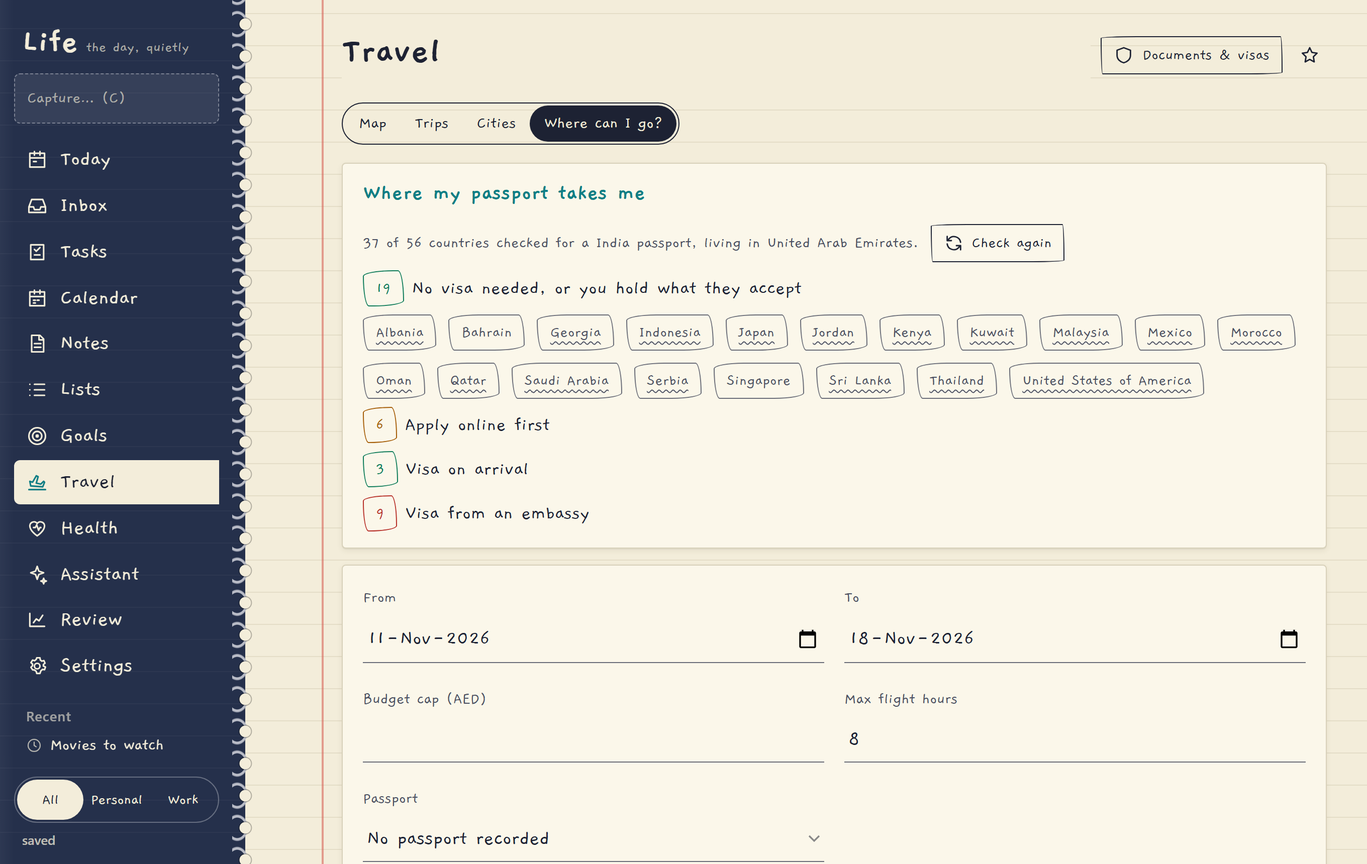
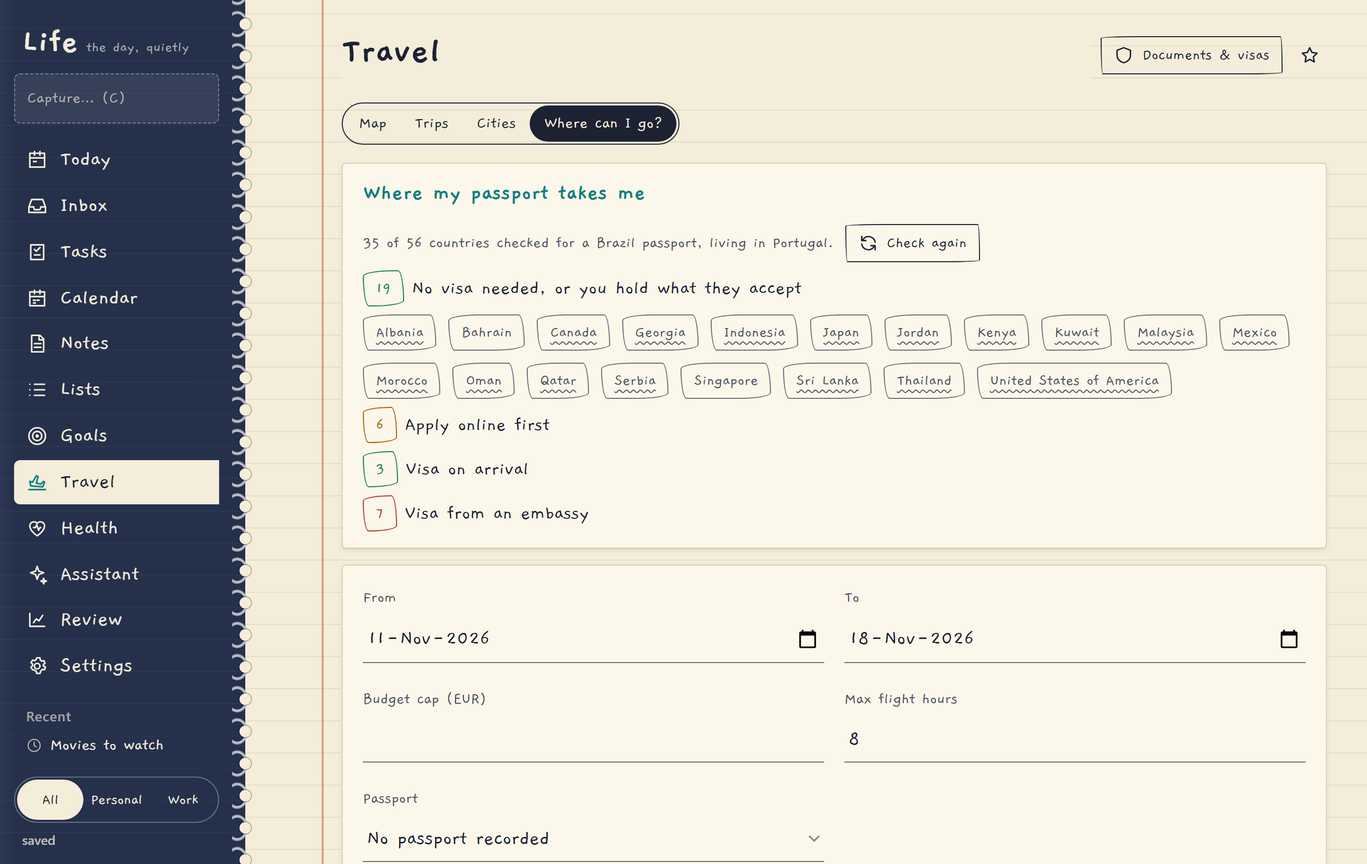
Docs: full setup guide, fictional sample persona for screenshots, explorer polish
- Set-up page rewritten end to end: requirements, install, keep it running, Tailscale + HTTPS, per-integration steps, config reference, backups/restore/update, troubleshooting, removal
- Screenshots regenerated from a fictional persona (nothing personal); the generator refuses to run if the sample data looks personal
- Explorer: proper names for small countries and no dead links; short list rows get separators; the country stamp no longer sits on the Add-visit button

Changed region(s): [[0.2812, 0.3698, 0.9375, 0.4622], [0.4375, 0.2773, 0.7812, 0.3081], [0.3125, 0.5855, 0.4375, 0.6163]]

diff --git a/docs/setup.html b/docs/setup.html
@@ -1,31 +1,98 @@
 <!doctype html>
 <html lang="en"><head><meta charset="utf-8"><meta name="viewport" content="width=device-width, initial-scale=1">
-<title>Set up · Life</title><meta name="description" content="Run Life on your computer, reach it from your phone, add integrations, back up your data."><meta name="theme-color" content="#25304b">
+<title>Set up · Life</title><meta name="description" content="Install and run Life on your computer, reach it from your iPhone, add integrations, back up, update and troubleshoot."><meta name="theme-color" content="#25304b">
 <link rel="icon" href="assets/icon.png"><link rel="stylesheet" href="assets/site.css"></head>
 <body><header class="top"><div class="in"><a class="brand" href="index.html"><img src="assets/icon.png" alt="">Life</a><nav aria-label="Main"><a href="index.html">Home</a><a href="features.html">Features</a><a href="iphone.html">iPhone</a><a href="setup.html" aria-current="page">Set up</a><a href="security.html">Security</a></nav></div></header>
 <main class="wrap">
 <h1>Set up</h1>
-<h2>Run it</h2>
-<p><b>Windows:</b> double-click <code>run.bat</code>. First run creates a virtual environment, installs the requirements and starts the server on <code>http://127.0.0.1:5055</code>. Open it and choose a password (8+ characters). <b>Mac/Linux:</b> <code>./run.sh</code>.</p>
-<p>To keep it running in the background, use a service wrapper such as NSSM: program <code>.venv\Scripts\python.exe</code>, arguments <code>app.py</code>, start directory = the project folder.</p>
-<h2>Reach it from your phone</h2>
-<p>Recommended: <b>Tailscale</b> on the computer and the phone, then <code>tailscale serve --bg 5055</code> gives you a private HTTPS address only your devices can reach. Add <code>LIFE_HTTPS=1</code> to <code>.env</code> so cookies are marked Secure. Never use <code>tailscale funnel</code> (that is public). A small VPS behind Caddy also works; the full steps are in <code>SETUP-PHONE.md</code>.</p>
-<h2>Add integrations in Settings</h2>
-<p>Everything is optional and fails softly into <b>Settings → Data health</b>. Keys you type in Settings are stored <b>encrypted</b> and applied immediately (no restart). A value in <code>.env</code> still works as a fallback.</p>
-<table><tr><th>Integration</th><th>What for</th><th>Where</th></tr>
-<tr><td>OpenAI key</td><td>Assistant, voice, share/enrichment (cheap models), Decisions API for entry rules</td><td>Settings → Voice &amp; assistant</td></tr>
-<tr><td>Anthropic key</td><td>Optional alternative for the assistant</td><td>same</td></tr>
-<tr><td>Telegram bot</td><td>Reminders, inbox capture, morning brief</td><td>Settings → Reminders &amp; Telegram</td></tr>
-<tr><td>Gmail app password</td><td>Email a to-do to yourself; booking proposals</td><td>Settings → Email-in</td></tr>
-<tr><td>Garmin</td><td>Sleep, steps, heart rate. One sign-in, tokens kept</td><td>Settings → Garmin, then Health → Sync now</td></tr>
-<tr><td>IMDb ratings</td><td>★ on films and series (free dataset, ~7 MB, downloaded only when you press the button)</td><td>Settings → Film &amp; series ratings</td></tr>
-<tr><td>OMDb key</td><td>Optional extra film details</td><td>Settings → Voice &amp; assistant</td></tr></table>
-<p>Set your <b>passport country</b> and <b>where you live</b> in <b>Settings → You</b> for the entry rules. Add the visas you hold in <b>Travel → Documents</b> (type "Visa").</p>
-<h2>Your data</h2>
-<ul><li>One SQLite file, <code>data/life.db</code>. Settings → Your data: <b>Export everything</b> (JSON + Markdown), <b>Download a backup</b> (to the Files app on iPhone), <b>Backup with key</b>.</li><li>A nightly backup keeps 14 days in <code>data/backups</code>.</li><li><b>Back up <code>data/fernet.key</code> too.</b> It encrypts passport numbers, health values, scans and the keys you entered. Lose it and those are unrecoverable, by design.</li></ul>
+<p>About 10 minutes for the basics; the phone and integrations are optional extras you can add any time. Life runs on <b>your own computer</b> (or a small server you control); your phone just opens it.</p>
+
+<h2>What you need</h2>
+<ul>
+<li>A computer that is on when you want Life: Windows, Mac or Linux. A home PC works well.</li>
+<li>A recent <b>Python 3</b> (developed and tested on 3.14). Get it from python.org; on Windows tick "Add Python to PATH".</li>
+<li><b>Git</b> to download and update the code (or download the folder as a zip).</li>
+<li>For the phone: an iPhone with Safari, and <b>Tailscale</b> (free) on the computer and the phone, so the phone can reach it privately over HTTPS.</li>
+<li>Optional: Node.js 18+ (only to run the JavaScript tests).</li>
+</ul>
+
+<h2>1 · Get the code and start it</h2>
+<ol class="steps">
+<li>Download the project: <code>git clone &lt;your repository address&gt; life</code>, then open the <code>life</code> folder.</li>
+<li><b>Windows:</b> double-click <code>run.bat</code>. <b>Mac/Linux:</b> run <code>./run.sh</code>. The first run creates a private Python environment, installs the requirements (a few minutes) and starts the server.</li>
+<li>Open <code>http://127.0.0.1:5055</code> in a browser on the same computer. Choose a password (8 or more characters; use a long one). That is your account: there is no sign-up and no cloud.</li>
+<li>Settings → <b>You</b>: your name, timezone, currency, <b>passport country</b> and <b>where you live</b>. (These drive the visa and entry-rule features.)</li>
+</ol>
+<p>Everything you save lives in one folder, <code>data/</code>, next to the code. It is never uploaded anywhere by Life.</p>
+
+<h2>2 · Keep it running</h2>
+<p>Life stops when you close its window, so for daily use run it in the background:</p>
+<ul>
+<li><b>Windows:</b> NSSM (a service wrapper): program <code>.venv\Scripts\python.exe</code>, arguments <code>app.py</code>, start directory = the project folder. Or a Task Scheduler task "At log on" that runs <code>.venv\Scripts\pythonw.exe app.py</code> in the project folder (no window).</li>
+<li><b>Mac:</b> a launchd agent; <b>Linux:</b> a systemd service running <code>.venv/bin/python app.py</code> in the project folder.</li>
+<li>Keep the computer awake (power settings) if you want reminders and notifications at any hour.</li>
+</ul>
+
+<h2>3 · Reach it from your iPhone</h2>
+<p>iOS only allows notifications, Face ID and installation for <b>HTTPS</b> sites, so Life needs a secure address your phone can reach. The easiest private way is Tailscale: only your own devices can open it.</p>
+<ol class="steps">
+<li>Install <b>Tailscale</b> on the computer and on the iPhone, and sign in to the same account on both.</li>
+<li>On the computer, in a terminal: <code>tailscale serve --bg 5055</code>. Tailscale prints an address like <code>https://your-pc.your-tailnet.ts.net</code> with a real certificate. <b>Do not use <code>tailscale funnel</code>: that makes it public.</b></li>
+<li>In the project folder create a file named <code>.env</code> with one line: <code>LIFE_HTTPS=1</code>, then restart Life. (This marks the sign-in cookie as Secure.)</li>
+<li>On the iPhone, open that address in <b>Safari</b> and sign in. Then follow the <a href="iphone.html">iPhone guide</a>: add it to the Home Screen, turn on notifications, Face ID, sharing, Calendar and Siri.</li>
+</ol>
+<div class="note"><p><b>Prefer not to keep a computer on?</b> A small cloud server works too: run Life there behind <b>Caddy</b> (it fetches a certificate automatically) with a long password. Details are in <code>SETUP-PHONE.md</code> in the project folder. Never expose the development server to the internet.</p></div>
+
+<h2>4 · Add integrations (all optional)</h2>
+<p>Open <b>Settings</b>, paste the key, done. Keys are stored <b>encrypted</b> and take effect immediately (no restart). A value in <code>.env</code> is still honoured as a fallback; what you type in Settings wins. Each integration reports its health in <b>Settings → Data health</b>.</p>
+<table><tr><th>Integration</th><th>How to set it up</th></tr>
+<tr><td><b>OpenAI</b> (assistant, voice, sharing, entry rules)</td><td>Create an API key at platform.openai.com → API keys. Paste it in <b>Settings → Voice &amp; assistant</b>. Set a monthly cap there too. Without it, everything except the AI features still works.</td></tr>
+<tr><td><b>Telegram</b> (reminders, morning brief, capture)</td><td>In Telegram message <b>@BotFather</b> → <code>/newbot</code> → copy the token into <b>Settings → Reminders &amp; Telegram</b>. Send your new bot any message, open <code>https://api.telegram.org/bot&lt;token&gt;/getUpdates</code> in a browser, find <code>"chat":{"id":123…</code> and paste that number as <b>Telegram chat id</b>. Press <b>Send test notification</b>.</td></tr>
+<tr><td><b>Phone notifications</b></td><td>On the iPhone, in the installed app: <b>Settings → Phone notifications → Turn on for this device</b> → allow → <b>Send a test</b>.</td></tr>
+<tr><td><b>Gmail</b> (email a to-do to yourself)</td><td>Turn on 2-step verification for the Google account, create an <b>App password</b> (Google Account → Security → App passwords), and enter the address and app password in <b>Settings → Email-in</b>. Add the allowed sender addresses.</td></tr>
+<tr><td><b>Garmin</b> (sleep, steps, heart rate)</td><td>Enter your Garmin email and password in <b>Settings → Garmin</b>, then <b>Health → Sync now</b>. Garmin emails you <b>one</b> code; enter it on the same screen. After that Life keeps a login token and never signs in with your password from the background again.</td></tr>
+<tr><td><b>IMDb ratings</b></td><td><b>Settings → Film &amp; series ratings → Download IMDb ratings</b> (a free ~7 MB file, fetched only when you press the button).</td></tr>
+<tr><td><b>Calendar &amp; Siri links</b></td><td><b>Settings → Use it on your iPhone</b>.</td></tr></table>
+
+<h2>5 · Your visas and entry rules</h2>
+<p>Set your <b>passport country</b> and <b>where you live</b> in Settings → You. Add each visa you hold in <b>Travel → Documents &amp; visas</b> (type <b>Visa</b>, with the country and expiry). Open any country in Travel to see <b>Entry for you</b>, or the <b>Where can I go?</b> tab and press <b>Check every country</b> (about 5 minutes in the background; cached for a week).</p>
+
+<h2>Configuration reference</h2>
+<p>Most settings live in the app. These environment variables (in <code>.env</code> or the system environment) are for the server itself:</p>
+<table><tr><th>Variable</th><th>Meaning</th></tr>
+<tr><td><code>LIFE_PORT</code> / <code>LIFE_HOST</code></td><td>Port (default 5055) and bind address (default <code>127.0.0.1</code>: only this computer; Tailscale forwards to it)</td></tr>
+<tr><td><code>LIFE_HTTPS=1</code></td><td>Serve cookies as Secure and send HSTS (set it when you use the HTTPS address)</td></tr>
+<tr><td><code>LIFE_DATA</code></td><td>Where the data folder lives (default <code>./data</code>)</td></tr>
+<tr><td><code>LIFE_FERNET_KEY</code>, <code>LIFE_SECRET</code></td><td>Supply your own encryption / session keys instead of the generated files in <code>data/</code></td></tr>
+<tr><td><code>LIFE_AI_MOCK=1</code></td><td>Use a built-in fake model (for trying things without any key, and for tests)</td></tr></table>
+
+<h2>Backups, restore, updates</h2>
+<ul>
+<li><b>Automatic:</b> a nightly copy of the database in <code>data/backups</code> (14 days kept).</li>
+<li><b>From your phone:</b> Settings → Your data → <b>Download a backup</b> (saves to the Files app). <b>Backup with key</b> also includes the encryption key; keep that file private (for example in iCloud Drive).</li>
+<li><b>Back up <code>data/fernet.key</code> too.</b> It encrypts passport numbers, health values, scans and the keys you entered. Without it those are unreadable, by design.</li>
+<li><b>Restore:</b> stop Life, copy the chosen <code>life-….db</code> over <code>data/life.db</code> (and put your <code>fernet.key</code> back), start Life.</li>
+<li><b>Update:</b> stop Life, <code>git pull</code>, start it again. Your data is untouched. Run the tests if you like (below).</li>
+</ul>
+
+<h2>Troubleshooting</h2>
+<table><tr><th>Problem</th><th>Try this</th></tr>
+<tr><td>Phone can't open the address</td><td>Is Tailscale connected on the phone and the computer? Does the address work in a browser on the computer? Is Life running? Did you use the full <code>https://…ts.net</code> address (with the port if you chose one)?</td></tr>
+<tr><td>No notifications on iPhone</td><td>It must be the <b>installed</b> app (Home Screen icon), opened over HTTPS, with notifications allowed in iOS Settings → Notifications → Life. Then Settings → Phone notifications → Turn on → Send a test.</td></tr>
+<tr><td>No Face ID option</td><td>Open the HTTPS address (passkeys need it) and set it up on the iPhone itself: Settings → Face ID.</td></tr>
+<tr><td>Locked out after requiring Face ID</td><td>Open Life <b>on the computer</b> (<code>http://localhost:5055</code>); the password still works there. Then turn the requirement off in Settings → Face ID.</td></tr>
+<tr><td>A shared Instagram post lands in the Inbox</td><td>Nothing readable was found (a hidden caption and unreadable slides). Copy the caption, open Capture, paste it and tap <b>To lists</b>. Use Settings → Use it on your iPhone → <b>Test this token</b> to check the Shortcut.</td></tr>
+<tr><td>Garmin keeps emailing codes</td><td>Update to this version: it signs in once and keeps tokens. Press <b>Sync now</b>, enter the one code, done.</td></tr>
+<tr><td>Forgot the password</td><td>Stop Life, then in the project folder run <code>.venv\Scripts\python -c "import sqlite3; c = sqlite3.connect('data/life.db'); c.execute('DELETE FROM kv WHERE k=?', ('pw',)); c.commit()"</code> (on Mac/Linux use <code>.venv/bin/python</code>) and start Life: it asks you to choose a new password. Your data is untouched.</td></tr>
+<tr><td>Port already in use</td><td>Set <code>LIFE_PORT=5056</code> in <code>.env</code> and restart (and re-run <code>tailscale serve</code> with the new port).</td></tr>
+<tr><td>Something looks stale after an update</td><td>On the phone close and reopen the app (it refreshes its cache on start).</td></tr></table>
+
 <h2>Run the tests</h2>
 <pre><code>.venv\Scripts\python tests\run_all.py          # everything (about 6 minutes)
 .venv\Scripts\python tests\run_all.py --fast   # syntax, unit and backend tests (about 30 s)</code></pre>
 <p>They cover the backend, security rules, every page at desktop and phone size, Face ID with a virtual authenticator, touch gestures, offline mode and sync. A test also scans the repo for anything key-shaped.</p>
 
-<footer>Life is a private, single-user app that runs on your own computer. This site was built from the project's own docs and sample data: no real personal data appears in any screenshot.</footer></main></body></html>
+<h2>Removing it</h2>
+<p>Stop Life and delete the project folder; your data went with it (<code>data/</code>). Before that, <b>Settings → Your data → Export everything</b> gives you a zip of all your records and notes.</p>
+
+<footer>Life is a private, single-user app that runs on your own computer. This site was built from the project's own docs and sample data: no real personal data appears in any screenshot. Handwriting font: Gaegu (SIL Open Font License).</footer></main></body></html>

diff --git a/docs/features.html b/docs/features.html
@@ -33,4 +33,4 @@
 <div class="shots"><figure><div class="phone"><img src="assets/shots/phone-tasks.png" alt="Tasks" loading="lazy"></div><figcaption>Tasks</figcaption></figure><figure><div class="phone"><img src="assets/shots/phone-notes.png" alt="Notes" loading="lazy"></div><figcaption>Notes</figcaption></figure><figure><div class="phone"><img src="assets/shots/phone-health.png" alt="Health" loading="lazy"></div><figcaption>Health</figcaption></figure><figure><div class="phone"><img src="assets/shots/phone-lists.png" alt="Lists" loading="lazy"></div><figcaption>Lists</figcaption></figure></div>
 <ul><li><b>Garmin</b> (health): sign in <b>once</b>; Life keeps a login token, not your password, so no repeated security-code emails.</li><li><b>Assistant</b>: asks before it changes anything (confirm cards), everything logged and undoable.</li><li><b>Review</b>: weekly, monthly and a year-in-review poster. <b>Backups</b>: nightly, plus download one to the Files app.</li></ul>
 
-<footer>Life is a private, single-user app that runs on your own computer. This site was built from the project's own docs and sample data: no real personal data appears in any screenshot.</footer></main></body></html>
+<footer>Life is a private, single-user app that runs on your own computer. This site was built from the project's own docs and sample data: no real personal data appears in any screenshot. Handwriting font: Gaegu (SIL Open Font License).</footer></main></body></html>

diff --git a/docs/security.html b/docs/security.html
@@ -36,4 +36,4 @@
 <li>Instagram can hide captions or change its pages; Life then falls back to reading the slides, and finally to your Inbox.</li>
 <li>Garmin's library is unofficial and may break; file import keeps working.</li></ul>
 
-<footer>Life is a private, single-user app that runs on your own computer. This site was built from the project's own docs and sample data: no real personal data appears in any screenshot.</footer></main></body></html>
+<footer>Life is a private, single-user app that runs on your own computer. This site was built from the project's own docs and sample data: no real personal data appears in any screenshot. Handwriting font: Gaegu (SIL Open Font License).</footer></main></body></html>

diff --git a/docs/iphone.html b/docs/iphone.html
@@ -29,4 +29,4 @@
 <h2>What iOS does not allow</h2>
 <p>A web app cannot have native Home Screen widgets or appear in Siri without a Shortcut. The Calendar feed and the Shortcuts above are the closest equivalents.</p>
 
-<footer>Life is a private, single-user app that runs on your own computer. This site was built from the project's own docs and sample data: no real personal data appears in any screenshot.</footer></main></body></html>
+<footer>Life is a private, single-user app that runs on your own computer. This site was built from the project's own docs and sample data: no real personal data appears in any screenshot. Handwriting font: Gaegu (SIL Open Font License).</footer></main></body></html>

diff --git a/docs/index.html b/docs/index.html
@@ -38,4 +38,4 @@
 </ul>
 <p><a href="security.html">Read the security notes →</a></p>
 
-<footer>Life is a private, single-user app that runs on your own computer. This site was built from the project's own docs and sample data: no real personal data appears in any screenshot.</footer></main></body></html>
+<footer>Life is a private, single-user app that runs on your own computer. This site was built from the project's own docs and sample data: no real personal data appears in any screenshot. Handwriting font: Gaegu (SIL Open Font License).</footer></main></body></html>

diff --git a/tools/build_docs.py b/tools/build_docs.py
@@ -8,7 +8,7 @@ LAYOUT = """<!doctype html>
 <link rel="icon" href="assets/icon.png"><link rel="stylesheet" href="assets/site.css"></head>
 <body><header class="top"><div class="in"><a class="brand" href="index.html"><img src="assets/icon.png" alt="">Life</a><nav aria-label="Main">{nav}</nav></div></header>
 <main class="wrap">{body}
-<footer>Life is a private, single-user app that runs on your own computer. This site was built from the project's own docs and sample data: no real personal data appears in any screenshot.</footer></main></body></html>
+<footer>Life is a private, single-user app that runs on your own computer. This site was built from the project's own docs and sample data: no real personal data appears in any screenshot. Handwriting font: Gaegu (SIL Open Font License).</footer></main></body></html>
 """
 
 def shot(name, cap, kind="phone"):
@@ -113,30 +113,97 @@ PAGES["iphone.html"] = ("iPhone guide · Life", "Install Life on your iPhone and
 <p>A web app cannot have native Home Screen widgets or appear in Siri without a Shortcut. The Calendar feed and the Shortcuts above are the closest equivalents.</p>
 """)
 
-PAGES["setup.html"] = ("Set up · Life", "Run Life on your computer, reach it from your phone, add integrations, back up your data.", f"""
+PAGES["setup.html"] = ("Set up · Life", "Install and run Life on your computer, reach it from your iPhone, add integrations, back up, update and troubleshoot.", f"""
 <h1>Set up</h1>
-<h2>Run it</h2>
-<p><b>Windows:</b> double-click <code>run.bat</code>. First run creates a virtual environment, installs the requirements and starts the server on <code>http://127.0.0.1:5055</code>. Open it and choose a password (8+ characters). <b>Mac/Linux:</b> <code>./run.sh</code>.</p>
-<p>To keep it running in the background, use a service wrapper such as NSSM: program <code>.venv\\Scripts\\python.exe</code>, arguments <code>app.py</code>, start directory = the project folder.</p>
-<h2>Reach it from your phone</h2>
-<p>Recommended: <b>Tailscale</b> on the computer and the phone, then <code>tailscale serve --bg 5055</code> gives you a private HTTPS address only your devices can reach. Add <code>LIFE_HTTPS=1</code> to <code>.env</code> so cookies are marked Secure. Never use <code>tailscale funnel</code> (that is public). A small VPS behind Caddy also works; the full steps are in <code>SETUP-PHONE.md</code>.</p>
-<h2>Add integrations in Settings</h2>
-<p>Everything is optional and fails softly into <b>Settings → Data health</b>. Keys you type in Settings are stored <b>encrypted</b> and applied immediately (no restart). A value in <code>.env</code> still works as a fallback.</p>
-<table><tr><th>Integration</th><th>What for</th><th>Where</th></tr>
-<tr><td>OpenAI key</td><td>Assistant, voice, share/enrichment (cheap models), Decisions API for entry rules</td><td>Settings → Voice &amp; assistant</td></tr>
-<tr><td>Anthropic key</td><td>Optional alternative for the assistant</td><td>same</td></tr>
-<tr><td>Telegram bot</td><td>Reminders, inbox capture, morning brief</td><td>Settings → Reminders &amp; Telegram</td></tr>
-<tr><td>Gmail app password</td><td>Email a to-do to yourself; booking proposals</td><td>Settings → Email-in</td></tr>
-<tr><td>Garmin</td><td>Sleep, steps, heart rate. One sign-in, tokens kept</td><td>Settings → Garmin, then Health → Sync now</td></tr>
-<tr><td>IMDb ratings</td><td>★ on films and series (free dataset, ~7 MB, downloaded only when you press the button)</td><td>Settings → Film &amp; series ratings</td></tr>
-<tr><td>OMDb key</td><td>Optional extra film details</td><td>Settings → Voice &amp; assistant</td></tr></table>
-<p>Set your <b>passport country</b> and <b>where you live</b> in <b>Settings → You</b> for the entry rules. Add the visas you hold in <b>Travel → Documents</b> (type "Visa").</p>
-<h2>Your data</h2>
-<ul><li>One SQLite file, <code>data/life.db</code>. Settings → Your data: <b>Export everything</b> (JSON + Markdown), <b>Download a backup</b> (to the Files app on iPhone), <b>Backup with key</b>.</li><li>A nightly backup keeps 14 days in <code>data/backups</code>.</li><li><b>Back up <code>data/fernet.key</code> too.</b> It encrypts passport numbers, health values, scans and the keys you entered. Lose it and those are unrecoverable, by design.</li></ul>
+<p>About 10 minutes for the basics; the phone and integrations are optional extras you can add any time. Life runs on <b>your own computer</b> (or a small server you control); your phone just opens it.</p>
+
+<h2>What you need</h2>
+<ul>
+<li>A computer that is on when you want Life: Windows, Mac or Linux. A home PC works well.</li>
+<li>A recent <b>Python 3</b> (developed and tested on 3.14). Get it from python.org; on Windows tick "Add Python to PATH".</li>
+<li><b>Git</b> to download and update the code (or download the folder as a zip).</li>
+<li>For the phone: an iPhone with Safari, and <b>Tailscale</b> (free) on the computer and the phone, so the phone can reach it privately over HTTPS.</li>
+<li>Optional: Node.js 18+ (only to run the JavaScript tests).</li>
+</ul>
+
+<h2>1 · Get the code and start it</h2>
+<ol class="steps">
+<li>Download the project: <code>git clone &lt;your repository address&gt; life</code>, then open the <code>life</code> folder.</li>
+<li><b>Windows:</b> double-click <code>run.bat</code>. <b>Mac/Linux:</b> run <code>./run.sh</code>. The first run creates a private Python environment, installs the requirements (a few minutes) and starts the server.</li>
+<li>Open <code>http://127.0.0.1:5055</code> in a browser on the same computer. Choose a password (8 or more characters; use a long one). That is your account: there is no sign-up and no cloud.</li>
+<li>Settings → <b>You</b>: your name, timezone, currency, <b>passport country</b> and <b>where you live</b>. (These drive the visa and entry-rule features.)</li>
+</ol>
+<p>Everything you save lives in one folder, <code>data/</code>, next to the code. It is never uploaded anywhere by Life.</p>
+
+<h2>2 · Keep it running</h2>
+<p>Life stops when you close its window, so for daily use run it in the background:</p>
+<ul>
+<li><b>Windows:</b> NSSM (a service wrapper): program <code>.venv\\Scripts\\python.exe</code>, arguments <code>app.py</code>, start directory = the project folder. Or a Task Scheduler task "At log on" that runs <code>.venv\\Scripts\\pythonw.exe app.py</code> in the project folder (no window).</li>
+<li><b>Mac:</b> a launchd agent; <b>Linux:</b> a systemd service running <code>.venv/bin/python app.py</code> in the project folder.</li>
+<li>Keep the computer awake (power settings) if you want reminders and notifications at any hour.</li>
+</ul>
+
+<h2>3 · Reach it from your iPhone</h2>
+<p>iOS only allows notifications, Face ID and installation for <b>HTTPS</b> sites, so Life needs a secure address your phone can reach. The easiest private way is Tailscale: only your own devices can open it.</p>
+<ol class="steps">
+<li>Install <b>Tailscale</b> on the computer and on the iPhone, and sign in to the same account on both.</li>
+<li>On the computer, in a terminal: <code>tailscale serve --bg 5055</code>. Tailscale prints an address like <code>https://your-pc.your-tailnet.ts.net</code> with a real certificate. <b>Do not use <code>tailscale funnel</code>: that makes it public.</b></li>
+<li>In the project folder create a file named <code>.env</code> with one line: <code>LIFE_HTTPS=1</code>, then restart Life. (This marks the sign-in cookie as Secure.)</li>
+<li>On the iPhone, open that address in <b>Safari</b> and sign in. Then follow the <a href="iphone.html">iPhone guide</a>: add it to the Home Screen, turn on notifications, Face ID, sharing, Calendar and Siri.</li>
+</ol>
+<div class="note"><p><b>Prefer not to keep a computer on?</b> A small cloud server works too: run Life there behind <b>Caddy</b> (it fetches a certificate automatically) with a long password. Details are in <code>SETUP-PHONE.md</code> in the project folder. Never expose the development server to the internet.</p></div>
+
+<h2>4 · Add integrations (all optional)</h2>
+<p>Open <b>Settings</b>, paste the key, done. Keys are stored <b>encrypted</b> and take effect immediately (no restart). A value in <code>.env</code> is still honoured as a fallback; what you type in Settings wins. Each integration reports its health in <b>Settings → Data health</b>.</p>
+<table><tr><th>Integration</th><th>How to set it up</th></tr>
+<tr><td><b>OpenAI</b> (assistant, voice, sharing, entry rules)</td><td>Create an API key at platform.openai.com → API keys. Paste it in <b>Settings → Voice &amp; assistant</b>. Set a monthly cap there too. Without it, everything except the AI features still works.</td></tr>
+<tr><td><b>Telegram</b> (reminders, morning brief, capture)</td><td>In Telegram message <b>@BotFather</b> → <code>/newbot</code> → copy the token into <b>Settings → Reminders &amp; Telegram</b>. Send your new bot any message, open <code>https://api.telegram.org/bot&lt;token&gt;/getUpdates</code> in a browser, find <code>"chat":{{"id":123…</code> and paste that number as <b>Telegram chat id</b>. Press <b>Send test notification</b>.</td></tr>
+<tr><td><b>Phone notifications</b></td><td>On the iPhone, in the installed app: <b>Settings → Phone notifications → Turn on for this device</b> → allow → <b>Send a test</b>.</td></tr>
+<tr><td><b>Gmail</b> (email a to-do to yourself)</td><td>Turn on 2-step verification for the Google account, create an <b>App password</b> (Google Account → Security → App passwords), and enter the address and app password in <b>Settings → Email-in</b>. Add the allowed sender addresses.</td></tr>
+<tr><td><b>Garmin</b> (sleep, steps, heart rate)</td><td>Enter your Garmin email and password in <b>Settings → Garmin</b>, then <b>Health → Sync now</b>. Garmin emails you <b>one</b> code; enter it on the same screen. After that Life keeps a login token and never signs in with your password from the background again.</td></tr>
+<tr><td><b>IMDb ratings</b></td><td><b>Settings → Film &amp; series ratings → Download IMDb ratings</b> (a free ~7 MB file, fetched only when you press the button).</td></tr>
+<tr><td><b>Calendar &amp; Siri links</b></td><td><b>Settings → Use it on your iPhone</b>.</td></tr></table>
+
+<h2>5 · Your visas and entry rules</h2>
+<p>Set your <b>passport country</b> and <b>where you live</b> in Settings → You. Add each visa you hold in <b>Travel → Documents &amp; visas</b> (type <b>Visa</b>, with the country and expiry). Open any country in Travel to see <b>Entry for you</b>, or the <b>Where can I go?</b> tab and press <b>Check every country</b> (about 5 minutes in the background; cached for a week).</p>
+
+<h2>Configuration reference</h2>
+<p>Most settings live in the app. These environment variables (in <code>.env</code> or the system environment) are for the server itself:</p>
+<table><tr><th>Variable</th><th>Meaning</th></tr>
+<tr><td><code>LIFE_PORT</code> / <code>LIFE_HOST</code></td><td>Port (default 5055) and bind address (default <code>127.0.0.1</code>: only this computer; Tailscale forwards to it)</td></tr>
+<tr><td><code>LIFE_HTTPS=1</code></td><td>Serve cookies as Secure and send HSTS (set it when you use the HTTPS address)</td></tr>
+<tr><td><code>LIFE_DATA</code></td><td>Where the data folder lives (default <code>./data</code>)</td></tr>
+<tr><td><code>LIFE_FERNET_KEY</code>, <code>LIFE_SECRET</code></td><td>Supply your own encryption / session keys instead of the generated files in <code>data/</code></td></tr>
+<tr><td><code>LIFE_AI_MOCK=1</code></td><td>Use a built-in fake model (for trying things without any key, and for tests)</td></tr></table>
+
+<h2>Backups, restore, updates</h2>
+<ul>
+<li><b>Automatic:</b> a nightly copy of the database in <code>data/backups</code> (14 days kept).</li>
+<li><b>From your phone:</b> Settings → Your data → <b>Download a backup</b> (saves to the Files app). <b>Backup with key</b> also includes the encryption key; keep that file private (for example in iCloud Drive).</li>
+<li><b>Back up <code>data/fernet.key</code> too.</b> It encrypts passport numbers, health values, scans and the keys you entered. Without it those are unreadable, by design.</li>
+<li><b>Restore:</b> stop Life, copy the chosen <code>life-….db</code> over <code>data/life.db</code> (and put your <code>fernet.key</code> back), start Life.</li>
+<li><b>Update:</b> stop Life, <code>git pull</code>, start it again. Your data is untouched. Run the tests if you like (below).</li>
+</ul>
+
+<h2>Troubleshooting</h2>
+<table><tr><th>Problem</th><th>Try this</th></tr>
+<tr><td>Phone can't open the address</td><td>Is Tailscale connected on the phone and the computer? Does the address work in a browser on the computer? Is Life running? Did you use the full <code>https://…ts.net</code> address (with the port if you chose one)?</td></tr>
+<tr><td>No notifications on iPhone</td><td>It must be the <b>installed</b> app (Home Screen icon), opened over HTTPS, with notifications allowed in iOS Settings → Notifications → Life. Then Settings → Phone notifications → Turn on → Send a test.</td></tr>
+<tr><td>No Face ID option</td><td>Open the HTTPS address (passkeys need it) and set it up on the iPhone itself: Settings → Face ID.</td></tr>
+<tr><td>Locked out after requiring Face ID</td><td>Open Life <b>on the computer</b> (<code>http://localhost:5055</code>); the password still works there. Then turn the requirement off in Settings → Face ID.</td></tr>
+<tr><td>A shared Instagram post lands in the Inbox</td><td>Nothing readable was found (a hidden caption and unreadable slides). Copy the caption, open Capture, paste it and tap <b>To lists</b>. Use Settings → Use it on your iPhone → <b>Test this token</b> to check the Shortcut.</td></tr>
+<tr><td>Garmin keeps emailing codes</td><td>Update to this version: it signs in once and keeps tokens. Press <b>Sync now</b>, enter the one code, done.</td></tr>
+<tr><td>Forgot the password</td><td>Stop Life, then in the project folder run <code>.venv\\Scripts\\python -c "import sqlite3; c = sqlite3.connect('data/life.db'); c.execute('DELETE FROM kv WHERE k=?', ('pw',)); c.commit()"</code> (on Mac/Linux use <code>.venv/bin/python</code>) and start Life: it asks you to choose a new password. Your data is untouched.</td></tr>
+<tr><td>Port already in use</td><td>Set <code>LIFE_PORT=5056</code> in <code>.env</code> and restart (and re-run <code>tailscale serve</code> with the new port).</td></tr>
+<tr><td>Something looks stale after an update</td><td>On the phone close and reopen the app (it refreshes its cache on start).</td></tr></table>
+
 <h2>Run the tests</h2>
 <pre><code>.venv\\Scripts\\python tests\\run_all.py          # everything (about 6 minutes)
 .venv\\Scripts\\python tests\\run_all.py --fast   # syntax, unit and backend tests (about 30 s)</code></pre>
 <p>They cover the backend, security rules, every page at desktop and phone size, Face ID with a virtual authenticator, touch gestures, offline mode and sync. A test also scans the repo for anything key-shaped.</p>
+
+<h2>Removing it</h2>
+<p>Stop Life and delete the project folder; your data went with it (<code>data/</code>). Before that, <b>Settings → Your data → Export everything</b> gives you a zip of all your records and notes.</p>
 """)
 
 PAGES["security.html"] = ("Security & privacy · Life", "How Life protects your data and what leaves your computer.", f"""
@@ -175,5 +242,6 @@ PAGES["security.html"] = ("Security & privacy · Life", "How Life protects your 
 
 for fn, (title, desc, body) in PAGES.items():
     nav = "".join(f'<a href="{h}"' + (' aria-current="page"' if h == fn else "") + f">{t}</a>" for h, t in NAV)
-    open(os.path.join(DOCS, fn), "w", encoding="utf8").write(LAYOUT.format(title=title, desc=desc, nav=nav, body=body))
+    with open(os.path.join(DOCS, fn), "w", encoding="utf8") as f:
+        f.write(LAYOUT.format(title=title, desc=desc, nav=nav, body=body))
 print("built", ", ".join(PAGES))

diff --git a/tools/make_screenshots.py b/tools/make_screenshots.py
@@ -12,9 +12,9 @@ D = lambda n: (date.today() + timedelta(days=n)).isoformat()
 
 CARD_AL = {"verdict": "visa_free", "headline": "You can enter without a visa", "reason": "you hold your US visa (10 years, expires 2035)", "steps": ["Have a return or onward ticket"], "passport": "Travel documents must be valid for at least 3 months upon arrival.", "watch": "",
            "routes": [{"why": "you hold your US visa (10 years, expires 2035)", "condition": "Passengers can enter with a multiple entry visa issued by the USA, if they have already used the visa to enter the country of issue at least once for a maximum of 90 days."}],
-           "source": "https://www.emirates.com/", "checked": D(0), "nationality": "in", "residency": "ae"}
-GROUPS = {"visa_free": "al ge mx rs th ma id lk ke jo qa om bh kw sg my".split(), "held": "us jp sa".split(), "eta_or_evisa": "tr kh vn eg tz ug".split(), "on_arrival": "mv mu np".split(), "visa_required": "gb fr de it es ca au br ru".split()}
-ALL = {"nationality": "in", "residency": "ae", "total": 56, "running": False, "done": 56, "failed": 0, "cards": {cc: {"verdict": v, "reason": "sample"} for v, ccs in GROUPS.items() for cc in ccs}}
+           "source": "https://www.emirates.com/", "checked": D(0), "nationality": "br", "residency": "pt"}
+GROUPS = {"visa_free": "al ge mx rs th ma id lk ke jo qa om bh kw sg my".split(), "held": "us jp ca".split(), "eta_or_evisa": "tr kh vn eg tz ug".split(), "on_arrival": "mv mu np".split(), "visa_required": "gb fr de it es au ru".split()}
+ALL = {"nationality": "br", "residency": "pt", "total": 56, "running": False, "done": 56, "failed": 0, "cards": {cc: {"verdict": v, "reason": "sample"} for v, ccs in GROUPS.items() for cc in ccs}}
 
 
 def main():
@@ -31,14 +31,14 @@ def main():
             pg.goto(BASE); pg.wait_for_selector("input[type=password]"); pg.fill("input[type=password]", PW); pg.keyboard.press("Enter"); pg.wait_for_selector(".shell", timeout=10000)
             api = lambda path, body: pg.evaluate("async ([p, b]) => { const m = await (await fetch('/api/me')).json(); const r = await fetch(p, {method: 'POST', headers: {'X-CSRF': m.csrf, 'Content-Type': 'application/json'}, body: JSON.stringify(b)}); return r.status; }", [path, body])
             api("/api/demo", {}); pg.wait_for_timeout(1200)
-            api("/api/settings", {"name": "Sam", "nationality": "in", "residency": "ae"})
+            api("/api/settings", {"name": "Sam", "nationality": "br", "residency": "pt", "timezone": "Europe/Lisbon", "currency": "EUR", "home_lat": 38.72, "home_lon": -9.14})
             def put(kind, data, rid=None):
                 ts = "2026-01-01T00:00:00.000Z"; api("/api/sync", {"changes": [{"id": rid or str(uuid.uuid4()), "kind": kind, "data": data, "updated_at": ts, "created_at": ts}]})
             rest, cafe, mov, ser = (str(uuid.uuid4()) for _ in range(4))
             put("list", {"name": "Restaurants", "type": "restaurant"}, rest); put("list", {"name": "Cafes", "type": "restaurant"}, cafe); put("list", {"name": "Movies to watch", "type": "media"}, mov); put("list", {"name": "Series to watch", "type": "media"}, ser)
-            for n, (t, cu, ci, pr, st) in enumerate([("Ocean Grill", "Japanese", "Jumeirah, Dubai", "$$$", "want to go"), ("Taco Libre", "Mexican", "Al Quoz, Dubai", "$", "want to go"), ("Brick Oven Pizza", "Italian", "DIFC, Dubai", "$$", "want to go"), ("Smoke & Co", "BBQ", "Marina, Dubai", "$$", "want to go"), ("Noodle House", "Chinese", "Deira, Dubai", "$", "been, loved")]):
-                put("list_item", {"list": rest, "title": t, "status": st, "order": n, "cuisine": cu, "city": ci, "price": pr, "notes": "Post: https://www.instagram.com/p/sample/", "phone": "04 000 0000", "tags": ["date night"]})
-            for n, (t, cu, ci, pr) in enumerate([("Sunrise Cafe", "Coffee", "Jumeirah, Dubai", "$$"), ("Flour & Honey", "Bakery", "City Walk, Dubai", "$$")]):
+            for n, (t, cu, ci, pr, st) in enumerate([("Ocean Grill", "Japanese", "Alfama, Lisbon", "$$$", "want to go"), ("Taco Libre", "Mexican", "Chiado, Lisbon", "$", "want to go"), ("Brick Oven Pizza", "Italian", "Baixa, Lisbon", "$$", "want to go"), ("Smoke & Co", "BBQ", "Belém, Lisbon", "$$", "want to go"), ("Noodle House", "Chinese", "Intendente, Lisbon", "$", "been, loved")]):
+                put("list_item", {"list": rest, "title": t, "status": st, "order": n, "cuisine": cu, "city": ci, "price": pr, "notes": "Post: https://www.instagram.com/p/sample/", "phone": "000 000 000", "tags": ["date night"]})
+            for n, (t, cu, ci, pr) in enumerate([("Sunrise Cafe", "Coffee", "Alfama, Lisbon", "$$"), ("Flour & Honey", "Bakery", "Campo de Ourique, Lisbon", "$$")]):
                 put("list_item", {"list": cafe, "title": t, "status": "want to go", "order": n, "cuisine": cu, "city": ci, "price": pr})
             for n, (t, g, la, im, yr, md) in enumerate([("Past Lives", "Drama, Romance", "English, Korean", "7.8", "2023", "movie"), ("Minari", "Drama", "English", "7.4", "2020", "movie"), ("Amelie", "Comedy, Romance", "French", "8.3", "2001", "movie"), ("Parasite", "Thriller, Drama", "Korean", "8.5", "2019", "movie"),
                                                          ("The Holdovers", "Comedy, Drama", "English", "7.9", "2023", "movie"), ("Spirited Away", "Animation, Fantasy", "Japanese", "8.6", "2001", "movie"), ("Perfect Days", "Drama", "Japanese", "7.9", "2023", "movie")]):
@@ -48,10 +48,19 @@ def main():
             for t, due, tm, pr in [("Renew gym membership", D(0), "09:30", 1), ("Book dentist", D(0), None, 2), ("Send the invoice", D(0), None, 3), ("Plan the weekend trip", D(1), None, 3), ("Call Mum", D(0), "19:00", 3)]:
                 put("task", {"title": t, "due": due, "due_time": tm, "priority": pr, "ctx": "personal", "done": False, "tags": [], "subtasks": []})
             put("event", {"title": "Padel with Jo", "date": D(0), "start": "18:00", "end": "19:00", "allday": False, "ctx": "personal"}); put("event", {"title": "Team sync", "date": D(0), "start": "11:00", "end": "11:30", "allday": False, "ctx": "work"})
-            put("trip", {"name": "Lisbon", "start": D(60), "end": D(66), "countries": ["PT"], "status": "planned", "currency": "AED"})
-            for nm, cc in [("US visa (10 years, expires 2035)", "US"), ("Japan tourist visa (5 years)", "JP"), ("Saudi e-visa (2 years)", "SA")]:
+            put("trip", {"name": "Kyoto in spring", "start": D(60), "end": D(66), "countries": ["JP"], "status": "planned", "currency": "EUR"})
+            for nm, cc in [("US visa (10 years, expires 2035)", "US"), ("Japan tourist visa (5 years)", "JP"), ("Canada eTA (5 years)", "CA")]:
                 put("travel_doc", {"type": "visa", "name": nm, "nationality": cc, "expiry": ""})
+            # the app's built-in demo data is written for a Dubai user (a padel venue, a budget in AED): make those neutral for the public docs
+            for rec in pg.evaluate("fetch('/api/sync?since=').then(r => r.json()).then(j => j.records)"):
+                d = rec["data"]
+                if rec["kind"] == "list_item" and "dubai" in str(d.get("area", "")).lower(): put("list_item", {"area": "Alfama"}, rec["id"])
+                if rec["kind"] == "trip" and d.get("currency") == "AED": put("trip", {"currency": "EUR"}, rec["id"])
             pg.reload(); pg.wait_for_selector(".shell"); pg.wait_for_timeout(1500)
+            dump = pg.evaluate("fetch('/api/sync?since=').then(r => r.json()).then(j => JSON.stringify(j.records))") + pg.evaluate("fetch('/api/settings').then(r => r.json()).then(j => JSON.stringify(j))")
+            import re
+            bad = [w for w in ("Dubai", "AED", "Abshar", "Abhi", "Aslam", "India", "Emirates", "UAE", "@gmail", "ts.net") if re.search(r"" + re.escape(w) + r"", dump, re.I)]
+            assert not bad, f"sample data contains personal-looking text: {bad}"
             shot = lambda page, name: page.screenshot(path=os.path.join(OUT, name))
             go = lambda page, h, wait=".view": (page.goto(f"{BASE}/#/{h}"), page.wait_for_selector(wait), page.wait_for_timeout(700))
             pg.route("**/api/visa?to=al", lambda r: r.fulfill(status=200, content_type="application/json", body=json.dumps(CARD_AL)))
